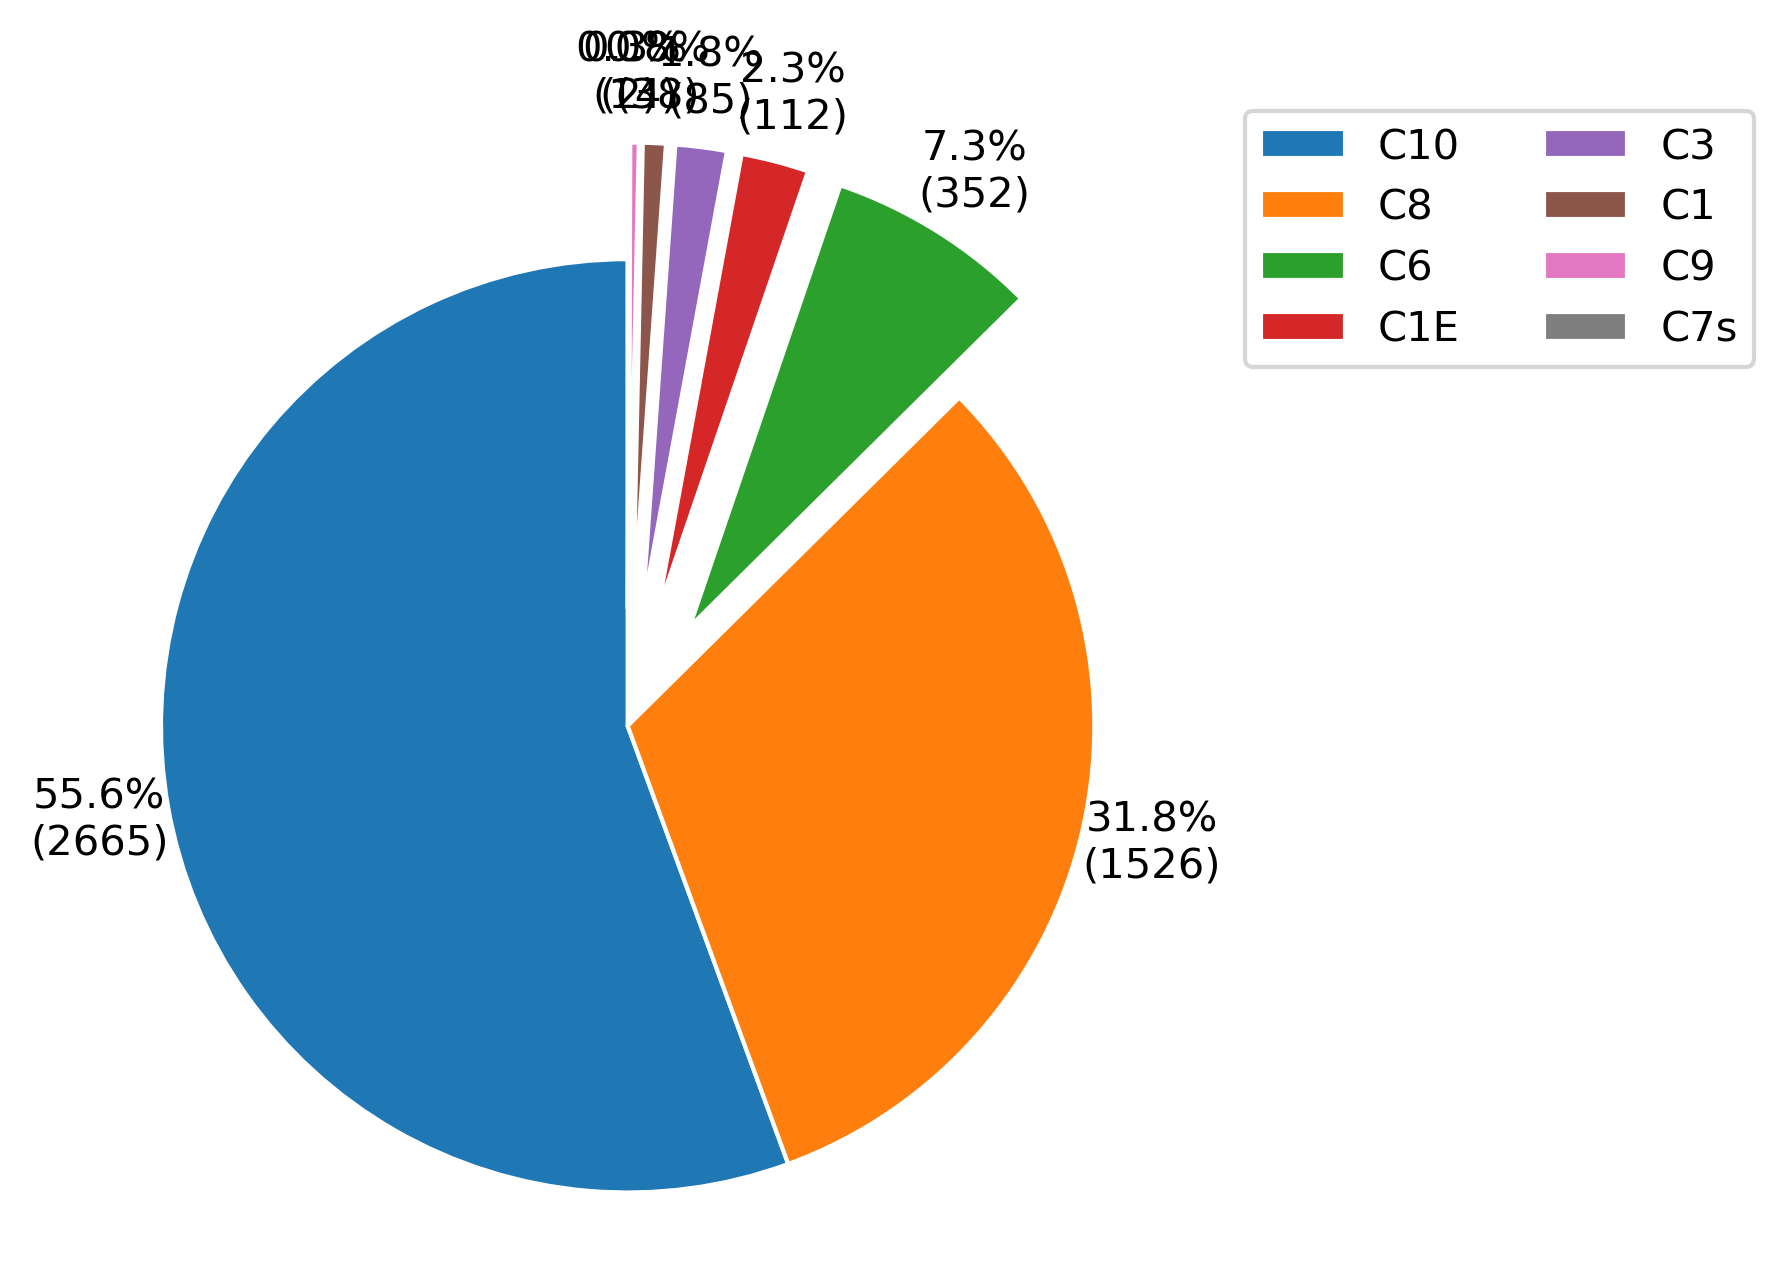
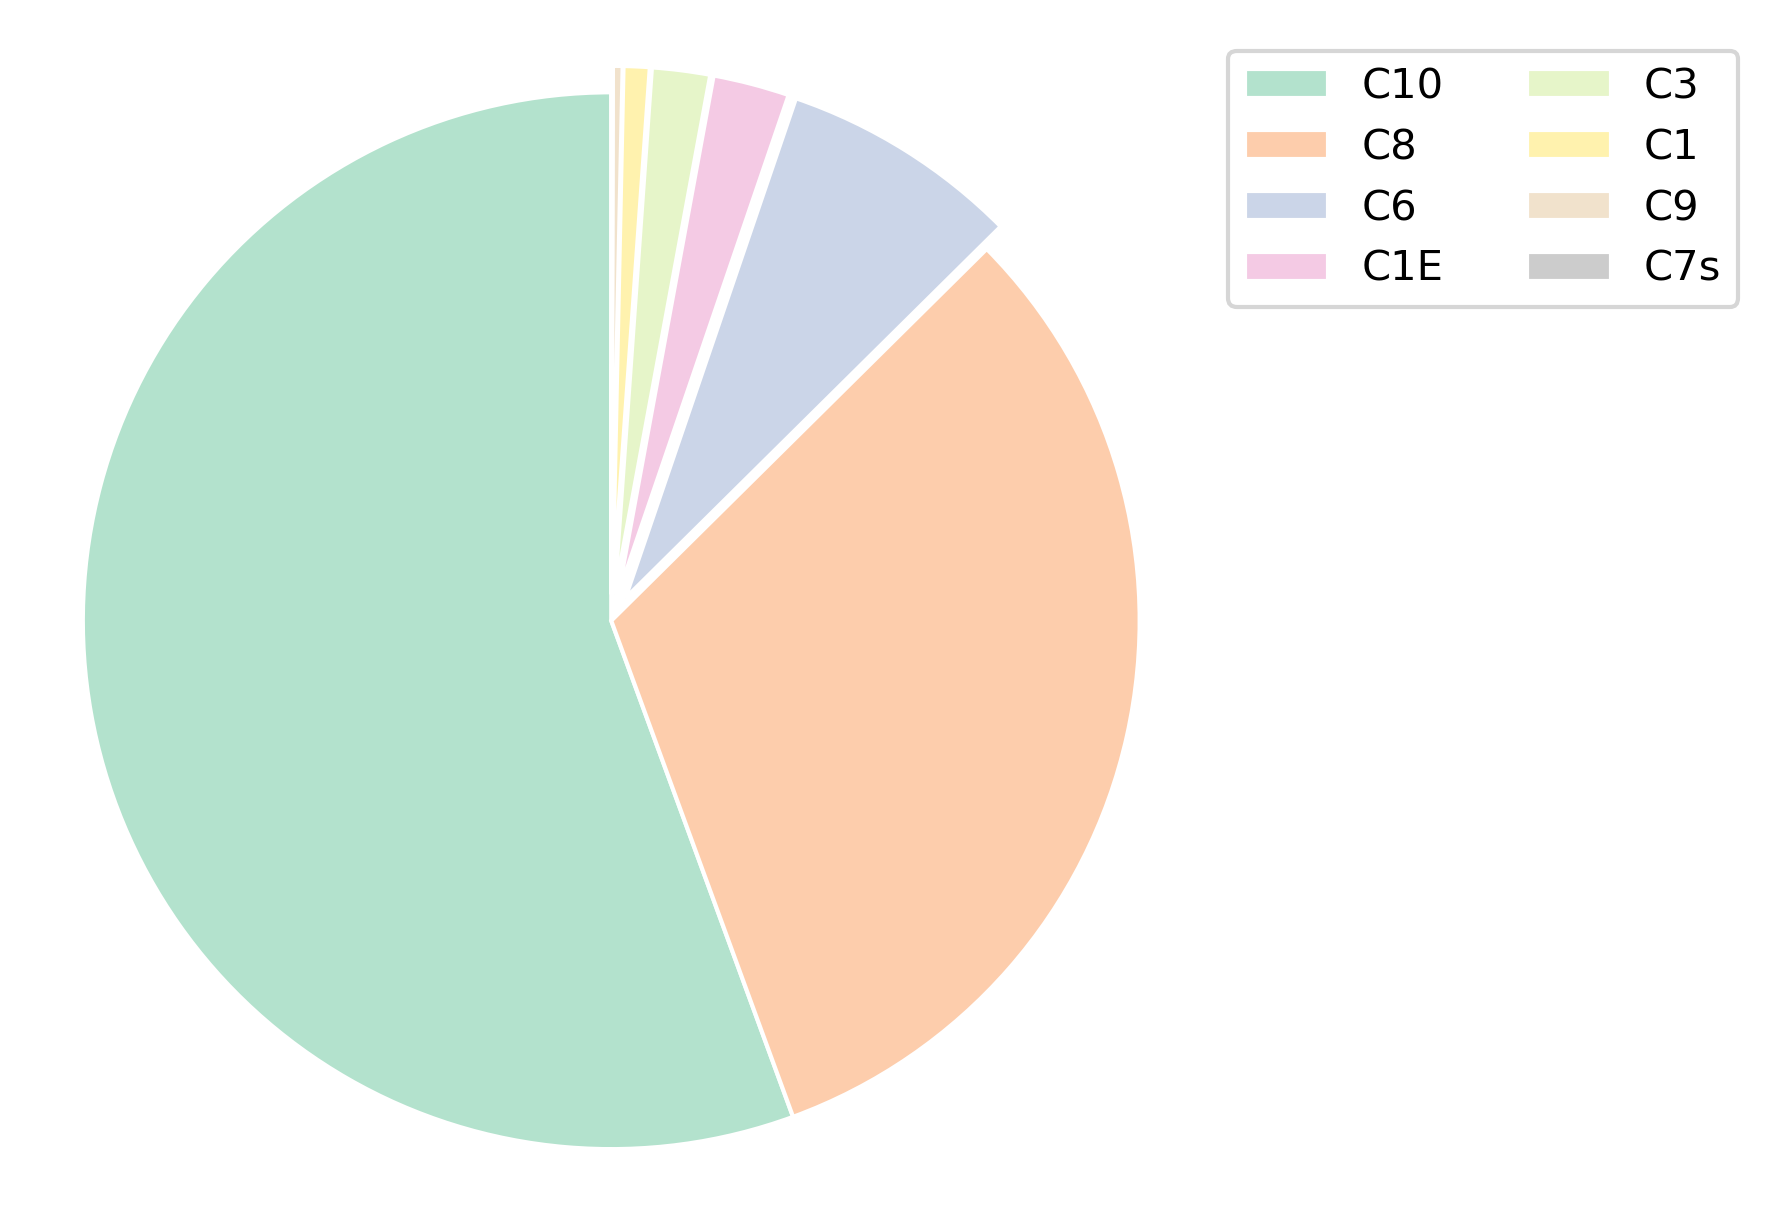
idle-governor: remove labels from entry pie

diff --git a/images/idle-governor/idle-governor-cstate-pie.py b/images/idle-governor/idle-governor-cstate-pie.py
@@ -14,20 +14,23 @@ lineprops = {"linewidth": 1, "edgecolor": "white"}
 
 df = pd.read_csv(FILE_DATA, delim_whitespace=True, usecols=['C-State'])
 grouped_data = df.groupby('C-State')['C-State'].count().sort_values(ascending=False)
+colors = plt.get_cmap('Pastel2')(np.linspace(0, 1, len(grouped_data)))
 
 def label_print(pct, allvals):
     absolute = int(round(pct/100.*sum(allvals)))
-    return "{:.1f}%\n({:d})".format(pct, absolute)
+    return ""
+    # Temporarily remove label print
+    #return "{:.1f}%\n({:d})".format(pct, absolute)
 
 fig, ax = plt.subplots(figsize=(5, 5))
 
 labels=grouped_data.index
 total_entries = sum(grouped_data.values)
 threshold = (20 * total_entries) / 100
-explode_arr = [0.25 if dat < threshold else 0 for dat in grouped_data.values]
+explode_arr = [0.05 if dat < threshold else 0 for dat in grouped_data.values]
 ax.pie(grouped_data,
         autopct=lambda pct: label_print(pct, grouped_data),
-        startangle=90, wedgeprops=lineprops, pctdistance=1.15, explode=explode_arr)
+        startangle=90, wedgeprops=lineprops, pctdistance=1.15, explode=explode_arr, colors=colors)
 ax.axis('equal')
 plt.legend(labels, loc='upper center', bbox_to_anchor=(1, 0, 0.5, 1), ncol=2)
 
